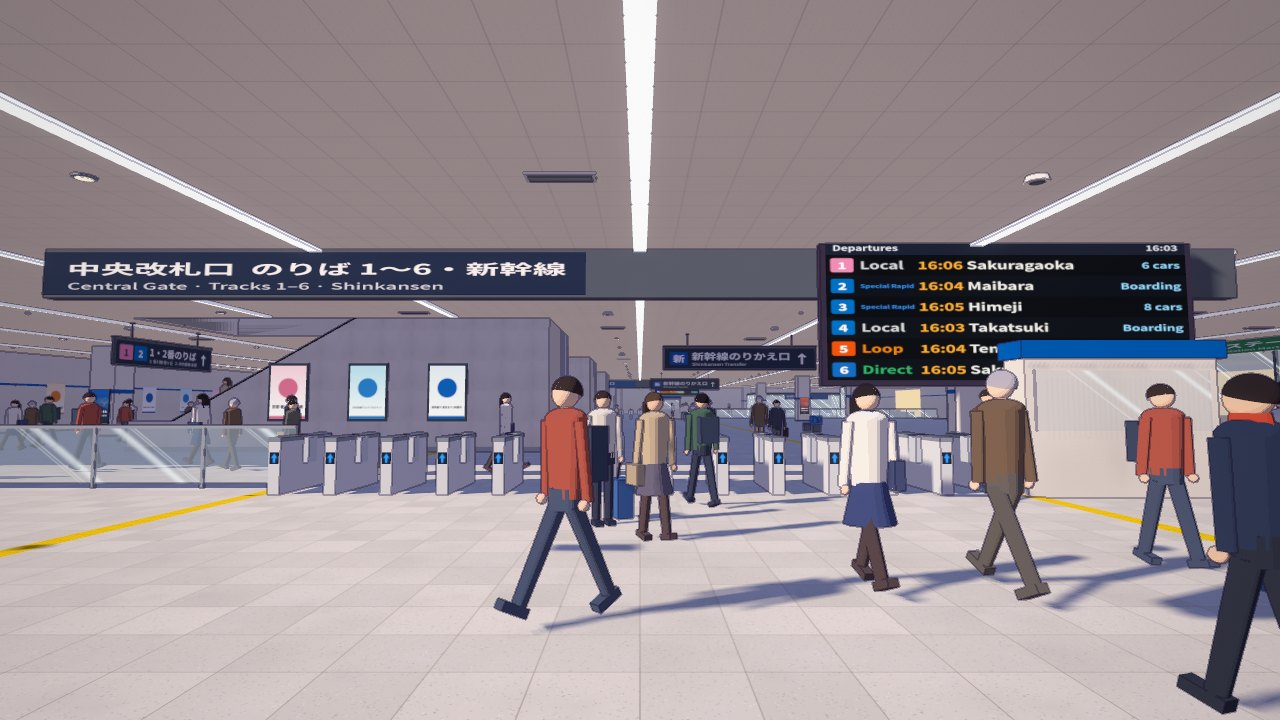
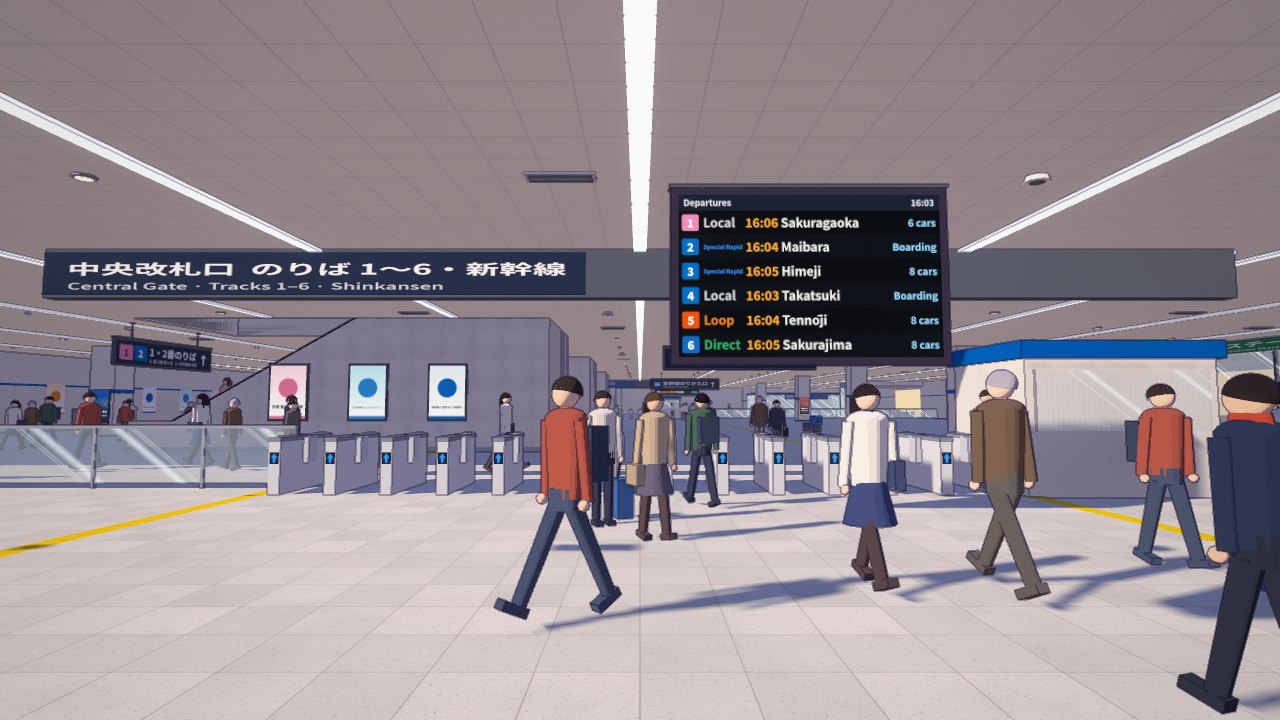
Terminal: hang the concourse departure board clear of the gate booth
The concourse board sat on the gate line: 6.4 m wide, hanging down to
about 2 m, so it cut into the staffed booth (2.6 m) and poked through the
ceiling. It now hangs from the ceiling on rods a few metres in front of
the gates, over the walkway, with its bottom at about 2.05 m.

Also widen the train-name column on the Shinkansen boards, so "Nozomi 22"
no longer runs into the departure time.

Claude-Session: https://claude.ai/code/session_01MxPejQFtkjRmZvuLe5kMJF

Changed region(s): [[0.5, 0.2444, 0.9688, 0.7028]]

diff --git a/src/world/terminal/signs.js b/src/world/terminal/signs.js
@@ -143,8 +143,9 @@ export function buildSigns(ctx, H) {
     if (B2 === 'both') k.plane(pw, ph, em, [0, 0, -0.095], [0, Math.PI, 0]);
     boards.push({ c, g2: c.getContext('2d'), tex, rows, list, shin, w, h });
   };
-  // concourse board over the gates (faces the entrance): all six tracks
-  lcd(1024, 640, 6, 6.5, 3.2, P.GATES.v + 0.5, 0, 6.4, 4.0 * 0.62, [1, 2, 3, 4, 5, 6]);
+  // concourse board (faces the entrance): all six tracks. It hangs from the ceiling a few metres in front of the
+  // gates, over the walkway — clear of the gate sign, the staffed booth (2.6 m) and people's heads (bottom ≈ 2.05 m)
+  lcd(1024, 640, 6, 2.2, 3.2, P.GATES.v + 3.6, 0, 3.4, 2.125, [1, 2, 3, 4, 5, 6], false, 'both', [[-1.3, CE], [1.3, CE]]);
   // Shinkansen board over the transfer gates (faces the conventional side)
   lcd(1024, 256, 2, 4.2, 3.35, P.SGATES.v + 0.5, 0, 4.8, 1.2, [13, 14], true, 'both', [[-1.8, CE], [1.8, CE]]);
   // one per island at the stair top (faces east along the platform, hanging from the cable ducts) + one per Shinkansen platform
@@ -168,7 +169,7 @@ export function buildSigns(ctx, H) {
       g.fillStyle = shin ? '#1553a8' : P.LINES[S.line].color; T.roundRect(g, 14, y - rh * 0.34, rh * 0.68, rh * 0.68, 8); g.fill();
       g.fillStyle = '#fff'; g.font = `900 ${fs * 0.9}px ${F.en}`; g.textAlign = 'center'; g.fillText(String(trk), 14 + rh * 0.34, y + 2);
       let x = 24 + rh * 0.68;
-      if (shin) { g.fillStyle = '#ff8a2a'; g.font = `700 ${fs}px ${F.sans}`; g.textAlign = 'left'; g.fillText(en ? `${S.nameEn} ${S.no}` : `${S.name} ${S.no}号`, x + 6, y); x += fs * 4.6; }
+      if (shin) { g.fillStyle = '#ff8a2a'; g.font = `700 ${fs}px ${F.sans}`; g.textAlign = 'left'; T.fitText(g, en ? `${S.nameEn} ${S.no}` : `${S.name} ${S.no}号`, x + 6, y, fs * 5.0, fs, en ? F.en : F.sans, 700); x += fs * 5.5; }
       else { g.fillStyle = TYPE_COL[S.type] || '#ddd'; g.font = `700 ${fs}px ${F.sans}`; g.textAlign = 'left'; T.fitText(g, en ? S.typeEn : S.type, x + 8, y, fs * 3.3, fs, en ? F.en : F.sans, 700); x += fs * 3.6; }
       g.fillStyle = '#ffb347'; g.font = `700 ${fs}px ${F.sans}`; g.textAlign = 'left'; g.fillText(P.clock(dep), x, y); x += fs * 2.9;
       g.fillStyle = '#f4f2ea'; T.fitText(g, en ? S.destEn : S.dest + (S.via && !en ? `(${S.via}経由)` : ''), x, y, w - x - (shin ? 200 : 200), fs, en ? F.en : F.sans, 700);
